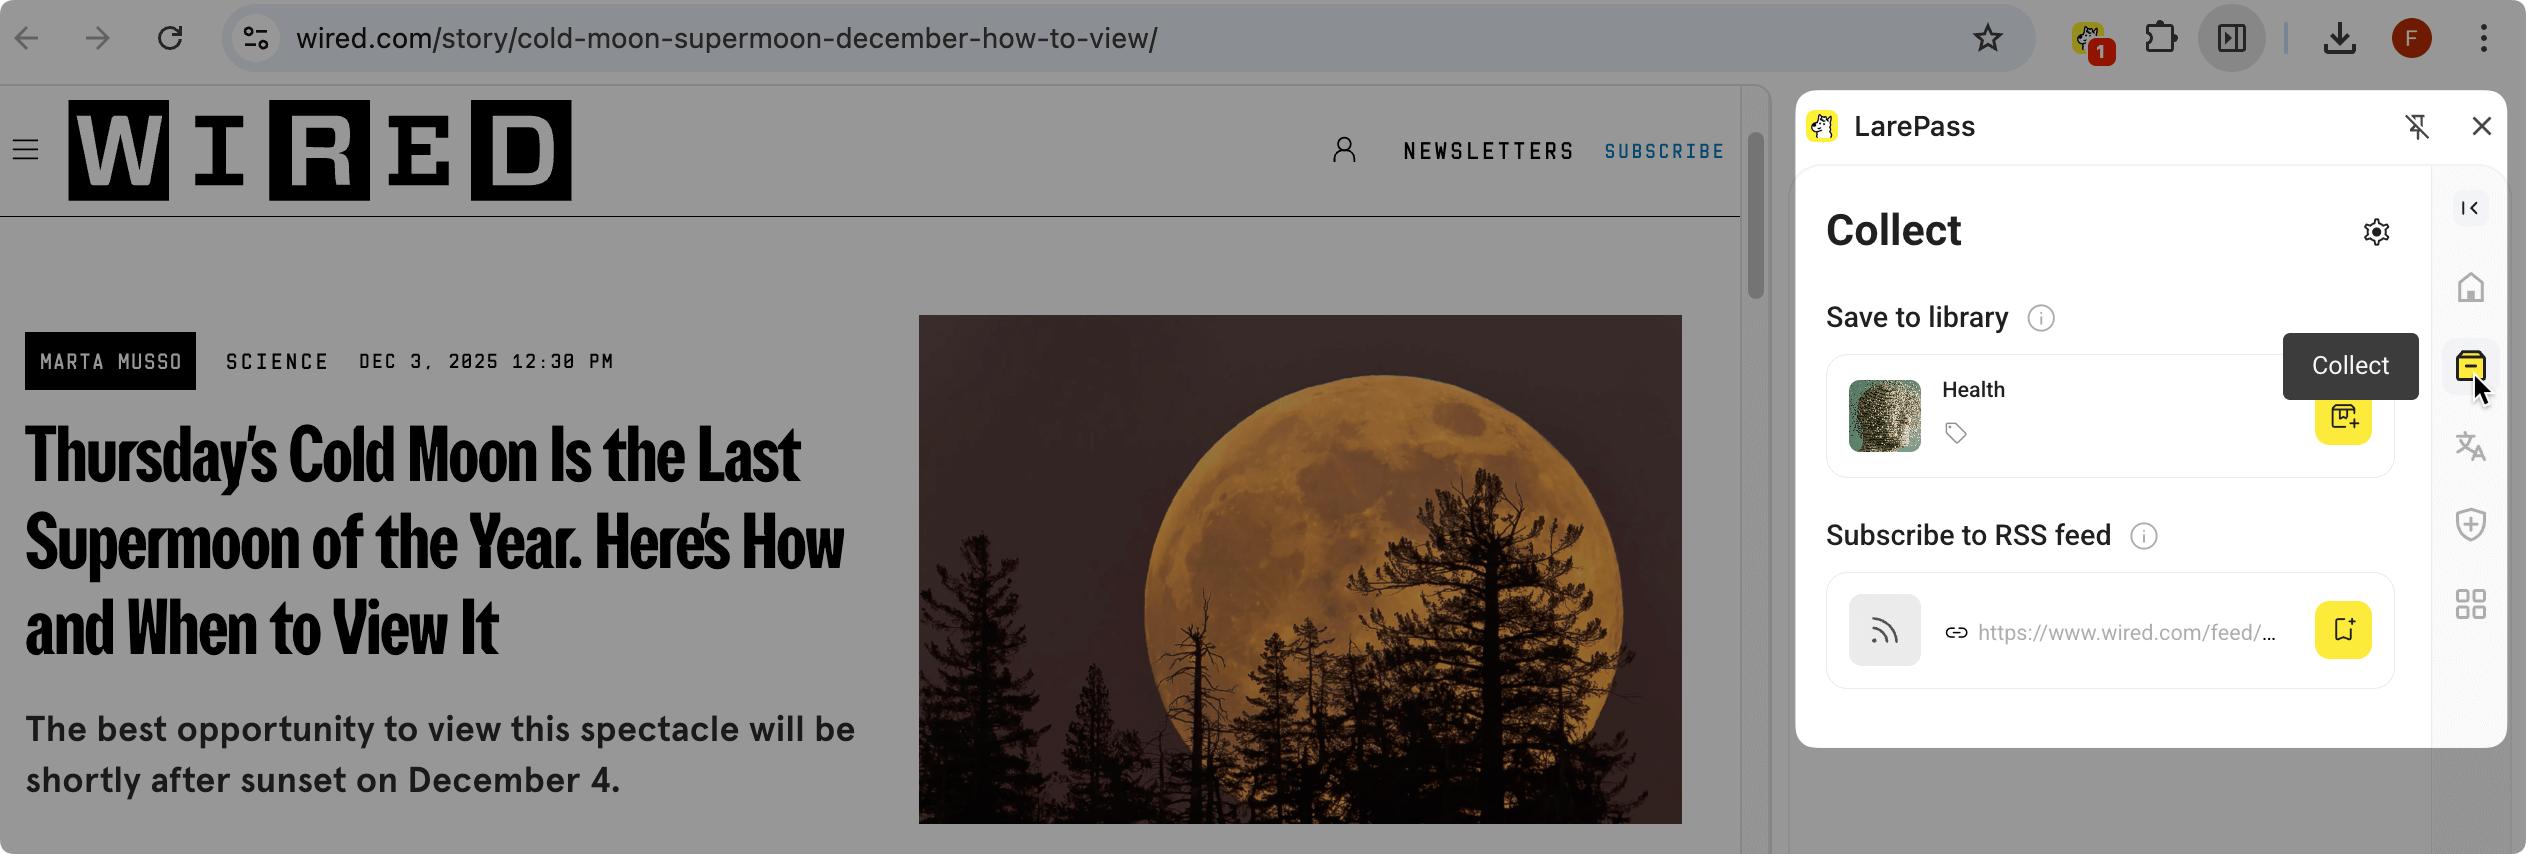
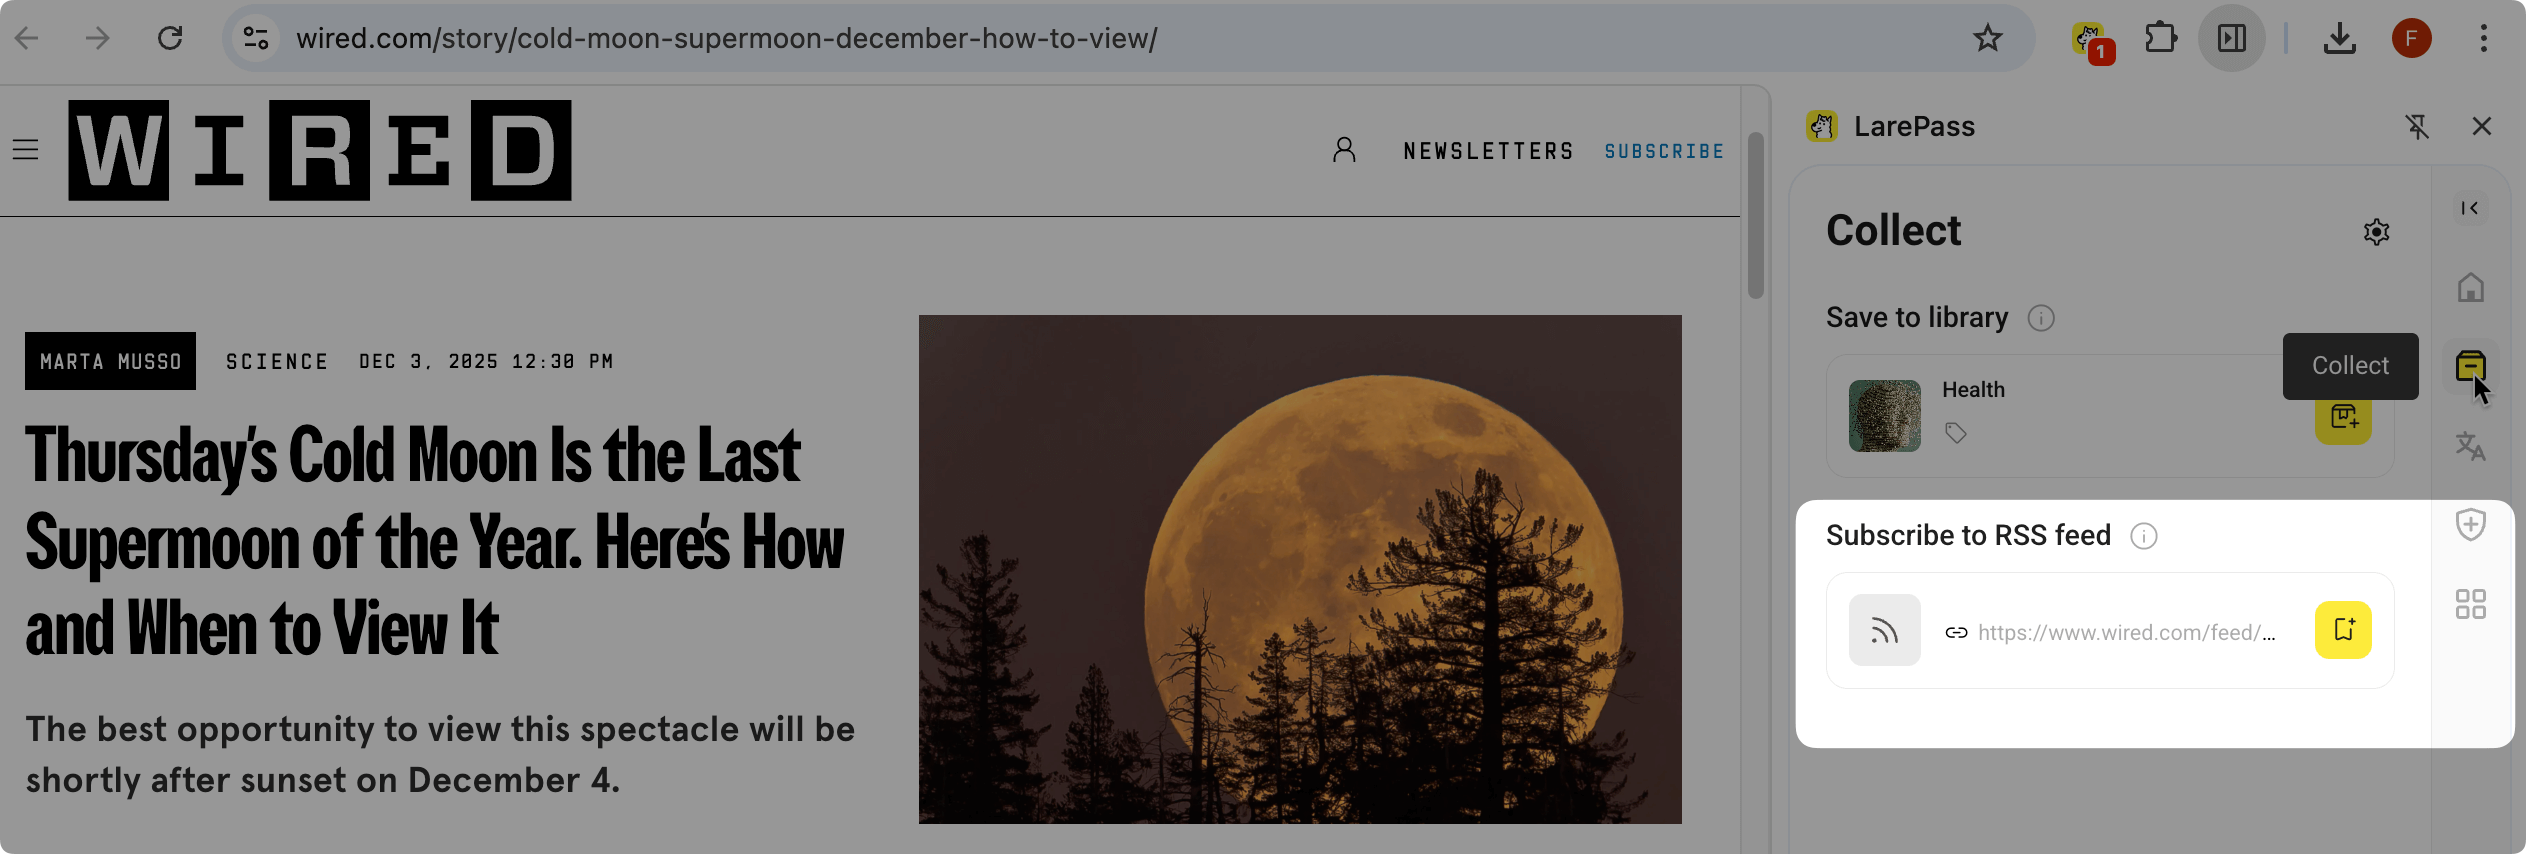
docs: update based on suggestions

Changed region(s): [[0.7102, 0.0913, 1.0, 0.8829]]

diff --git a/docs/.vitepress/en.ts b/docs/.vitepress/en.ts
@@ -262,7 +262,7 @@ const side = {
               link: "/manual/olares/wise/manage-cookies",
             },
             {
-              text: "Organize your knowledge",
+              text: "Filter your knowledge",
               link: "/manual/olares/wise/filter",
             },
           ],

diff --git a/docs/.vitepress/zh.ts b/docs/.vitepress/zh.ts
@@ -263,7 +263,7 @@ const side = {
               "link": "/zh/manual/olares/wise/subscribe"
             },
             {
-              "text": "整理知识",
+              "text": "使用过滤视图",
               "link": "/zh/manual/olares/wise/filter"
             }
           ]

diff --git a/docs/manual/olares/wise/index.md b/docs/manual/olares/wise/index.md
@@ -23,30 +23,30 @@ The sidebar navigation is divided into three logical areas:
 
 - **Feeds**
 
-    Your collection of subscribed sources. You can add any subscribable content here (including websites, blogs, and video channels). Clicking a specific feed allows you to toggle between **Unread** and **Read** items to track your consumption.
+    Your collection of subscribed sources. You can add any subscribable content here, including websites, blogs, and video channels. Clicking a specific feed allows you to toggle between **Unread** and **Read** items to track your consumption.
 
 - **Inbox**
 
     Your central workspace for active content. This folder aggregates all items currently marked as **Inbox** status, regardless of their format. Items appear here from three sources:
-    - Saved web pages (via LarePass browser extension or manual entry)
-    - Uploaded files (PDFs, EPUBs, etc.)
+    - Saved web pages via LarePass browser extension or manual entry
+    - Uploaded files such as PDFs, EPUBs, etc.
     - Feed items added to your library
 
 - **Content types**
 
     Wise automatically categorizes your content by format (**Articles**, **Videos**, **Audios**, **Books**, **PDFs**). Each content-type folder has two tabs that reflect the item's status:
-    - **`Inbox`**: Items of this type that you intend to read or process soon.
-    - **`Read Later`**: Items of this type that you saved for later reading.
+    - **Inbox**: Items of this type that you intend to read or process soon.
+    - **Read Later**: Items of this type that you saved for later reading.
     ![Item status](/images/manual/olares/wise-tabs-in-folder.png#bordered)
 
 ### Item status
 
 Every item in Wise has a status that can be either **Inbox** or **Read Later**. You can change an item's status using the icons in the list view or the reader view:
 
-- **<i class="material-symbols-outlined">inbox</i> `Inbox`**: Indicates the item is active or "to do."
-- **<i class="material-symbols-outlined">schedule</i> `Read Later`**: Indicates the item is archived or saved for future reading.
+- **<i class="material-symbols-outlined">inbox</i> Inbox**: Your primary collection for content you want to read soon.
+- **<i class="material-symbols-outlined">schedule</i> Read Later**: Your backlog for content to revisit in the future.
 
-Changing the status controls where the item appears in the sidebar (top-level **Inbox** and the `Inbox` / `Read Later` tabs of its content type), and updates instantly when you switch between them.
+Changing the status determines where the item appears in the sidebar, such as the top-level **Inbox** and the **Inbox** or **Read Later** tabs of its content type. The view updates instantly when you switch between them.
 
 ## Next steps
 

diff --git a/docs/zh/manual/olares/wise/index.md b/docs/zh/manual/olares/wise/index.md
@@ -27,25 +27,25 @@ Wise 内置两大核心能力：
 - **收件箱**
 
     这里是你处理当前内容的中心工作区，聚合了所有当前状态为**未读**的文件。这里的文件通常有以下三个来源：
-    - 收藏的网页（通过 LarePass 浏览器扩展或手动添加）
-    - 上传的文件（PDF、EPUB 等）
+    - 通过 LarePass 浏览器扩展或手动添加收藏的网页
+    - 上传的文件，如 PDF、EPUB 等
     - 从订阅源保存到收件箱
 
 - **文件类型**
 
     Wise 会根据文件格式自动对其分类（**文章**、**视频**、**音频**、**图书**、**PDF**）。每个类型文件夹中都包含两个根据文件状态划分的标签页：
-    - **`未读`**：打算尽快阅读或处理的内容。
-    - **`已读`**：保存下来，准备日后再读的内容。
+    - **收件箱**：计划近期阅读的主要内容集合。
+    - **稍后阅读**：计划稍后查看的内容。
     ![Item status](/images/zh/manual/olares/wise-tabs-in-folder.png#bordered)
 
 ### 文件状态
 
-Wise 中的每个文件都只有一个状态，分别为**已读**或**未读**。你可以在列表视图或阅读视图中，点击图标更改其状态：
+Wise 中的每个文件都只有一个状态，分别为**收件箱**或**稍后阅读**。你可以在列表视图或阅读视图中，点击图标更改其状态：
 
-- **<i class="material-symbols-outlined">inbox</i> `已读`**: 表示该文件处于活跃状态或“待办”状态。
-- **<i class="material-symbols-outlined">schedule</i> `未读`**:表示该文件已归档或保存，准备日后阅读。
+- **<i class="material-symbols-outlined">inbox</i> 收件箱**: 表示该文件计划近期阅读。
+- **<i class="material-symbols-outlined">schedule</i> 稍后阅读**:表示该文件计划稍后查看。
 
-更改文件状态将决定文件在侧边栏中的显示位置（如出现在**收件箱**，或对应文件类型的`已读`/ `未读`标签页中），并随着状态切换，即时更新位置。
+更改文件状态将决定文件在侧边栏中的显示位置，如出现在**收件箱**，或对应文件类型的**收件箱**/**稍后阅读**标签页中，并随着状态切换，即时更新位置。
 
 ## 后续步骤
 

diff --git a/docs/zh/manual/olares/wise/manage-cookies.md b/docs/zh/manual/olares/wise/manage-cookies.md
@@ -23,18 +23,13 @@ Olares 提供多种方式，让你可以灵活上传 Cookie，你可选择在浏
 
 ### 使用 LarePass 浏览器扩展上传
 
-这是处理 Cookie 最简单的方式。当你浏览一个需要登录的网站时，LarePass 扩展可以一次性捕获并上传当前页面所需的 Cookie。
-
-
-:::tip 安装 LarePass 浏览器扩展
-LarePass 扩展目前仅支持 Chrome 浏览器。你可以从[官网](https://olares.cn/larepass)下载。
-:::
+这是处理 Cookie 最简单的方式。当你浏览一个需要登录的网站时，[LarePass 扩展](https://www.olares.cn/larepass)可以一次性捕获并上传当前页面所需的 Cookie。
 
 1. 打开目标网站，并确认你已经登录。
-2. 打开 LarePass 浏览器扩展，选择 **<i class="material-symbols-outlined">inventory_2</i>**。
+2. 打开 LarePass 浏览器扩展，选择 **<i class="material-symbols-outlined">hard_drive</i>**。
 3. 点击**上传**来上传当前页面的 Cookie。
 
-![使用 LarePass 扩展上传 Cookie](/images/zh/manual/olares/wise-upload-cookie-larepass.png#bordered){width=70%}
+![使用 LarePass 扩展上传 Cookie](/images/zh/manual/olares/wise-upload-cookie-larepass.png#bordered){width=45%}
 
 上传完成后，当你在该页面执行**保存到库**或**订阅 RSS 源** 时，Wise 会自动使用这些 Cookie。
 

diff --git a/docs/manual/olares/wise/manage-cookies.md b/docs/manual/olares/wise/manage-cookies.md
@@ -23,17 +23,13 @@ Olares provides flexible options for uploading cookies, depending on whether you
 
 ### Upload via LarePass browser extension
 
-This is the easiest way to handle cookies. When you are browsing a site that requires a login, LarePass can capture and upload the cookies for the current page in one flow.
-
-:::tip Install LarePass browser extension
-LarePass extension is currently available for Chrome browsers only. You can download it from the [official page](https://www.olares.com/larepass).
-:::
+This is the easiest way to handle cookies. When you are browsing a site that requires a login, [LarePass browser extension](https://www.olares.com/larepass) can capture and upload the cookies for the current page in one flow.
 
 1. Navigate to the target website and make sure you are logged in.
-2. Open the **LarePass** browser extension and select **<i class="material-symbols-outlined">inventory_2</i>**.
+2. Open the **LarePass** browser extension and select **<i class="material-symbols-outlined">hard_drive</i>**.
 3. Click **Upload** to upload the cookies for the current page.
 
-![Upload cookies via LarePass extension](/images/manual/olares/wise-upload-cookie-larepass.png#bordered){width=70%}
+![Upload cookies via LarePass extension](/images/manual/olares/wise-upload-cookie-larepass.png#bordered){width=50%}
 
 After upload, Wise will use these cookies when you **Save to library** or **Subscribe to RSS feed** for that site.
 

diff --git a/docs/zh/manual/olares/wise/basics.md b/docs/zh/manual/olares/wise/basics.md
@@ -30,7 +30,7 @@ Wise 通过以下两种方式将内容收集到库中：
 
 #### 上传文件
 
-直接从你的电脑导入文件，包括 PDF、EPUB、音频、视频和其他文件类型。Wise 会根据文件格式，自动将其放入库中对应的内容文件夹（例如，PDF 放入 **PDF**，EPUB 放入**图书**，媒体文件放入**视频**或**音频**）。
+直接从你的电脑导入文件，包括 PDF、EPUB、音频、视频和其他文件类型。Wise 会根据文件格式，自动将其放入库中对应的内容文件夹。例如，PDF 放入 **PDF**，EPUB 放入**图书**，媒体文件放入**视频**或**音频**。
 
 1. 点击左下角菜单栏的 <i class="material-symbols-outlined">add_circle</i>。  
 2. 选择**上传**。
@@ -50,9 +50,9 @@ Wise 通过以下两种方式将内容收集到库中：
 
    Wise 会解析链接，并列出所有可行操作：
     - **保存到库**：将内容保存为库中的一个文件，并添加至**收件箱**。
-    - **订阅 RSS 源**：如果 Wise 检测到站点有一或多个 RSS 源，会在此列出。选择你想要订阅的源，之后该订阅源下的更新会自动出现在**订阅源**中（详情请查看[订阅和管理订阅源](./subscribe)）。
+    - **订阅 RSS 源**：如果 Wise 检测到站点有一或多个 RSS 源，会在此列出。选择你想要订阅的源，之后该订阅源下的更新会自动出现在[**订阅源**](./subscribe)中。
     ![订阅 RSS 源](/images/zh/manual/olares/wise-add-link-subscribe.png#bordered){width=300}
-    - **下载文件**：如果 Wise 检测到页面上有视频或其他可下载文件，会出现此选项。选择你要下载的文件，将其保存以便离线访问。(需安装**YT-DLP**).
+    - **下载文件**：如果 Wise 检测到页面上有视频或其他可下载文件，会出现此选项。选择你要下载的文件，将其保存以便离线访问。使用此功能需安装[YT-DLP](https://market.olares.com/app/market.olares/ytdlp)。
 
     ![Download files](/images/zh/manual/olares/wise-add-link-download.png#bordered){width=300}
 
@@ -63,7 +63,7 @@ Wise 通过以下两种方式将内容收集到库中：
 你也可以在浏览器中通过 LarePass 扩展直接将内容保存到 Wise，无需打开 Wise 应用。
 
 :::tip 安装 LarePass 浏览器扩展
-LarePass 扩展目前仅支持 Chrome 浏览器。你可以从[官网](https://olares.cn/larepass)下载。
+LarePass 扩展目前仅支持 Chrome 浏览器。你可以从[官网](https://www.olares.cn/larepass)下载。
 :::
 
 将网页内容保存到 Wise：

diff --git a/docs/manual/olares/wise/basics.md b/docs/manual/olares/wise/basics.md
@@ -31,7 +31,7 @@ You can save individual items to Wise in three ways: by uploading files, adding 
 
 #### Upload files
 
-Import files directly from your computer, including PDFs, EPUBs, audio, video, and other document types. Wise automatically places each supported format into the right content folder in your library (for example, PDFs under **PDFs**, EPUBs under **Books**, and media under **Videos** or **Audios**).
+Import files directly from your computer, including PDFs, EPUBs, audio, video, and other document types. Wise automatically places each supported format into the right content folder in your library. For example, PDFs under **PDFs**, EPUBs under **Books**, and media under **Videos** or **Audios**.
 
 1. Click <i class="material-symbols-outlined">add_circle</i> in the bottom-left menu bar.  
 2. Choose **Upload**.
@@ -51,9 +51,9 @@ If a link requires login or other access control, Wise may need cookies to fetch
 
     Wise analyzes the link and lists all actions available:
     - **Save to library**: The content will be saved as an item in your library and added to **Inbox**.
-    - **Subscribe to RSS feed**: If Wise detects one or more RSS feeds for the site, they will be listed here. Select the feed you want to follow, and new items from that feed will be automatically added to **Feeds**(see [Subscribe and manage feeds](./subscribe)).
+    - **Subscribe to RSS feed**: If Wise detects one or more RSS feeds for the site, they will be listed here. Select the feed you want to follow, and new items from that feed will be automatically [added to **Feeds**](./subscribe).
     ![Subscribe to RSS feed](/images/manual/olares/wise-add-link-subscribe.png#bordered){width=300}
-    - **Download file**: If Wise detects videos or other downloadable files on the page, this option will appear. Select the file you want to download to save it for offline access (requires **[YT-DLP](https://market.laresprime.olares.com/app/market.olares/ytdlp)**).
+    - **Download file**: If Wise detects videos or other downloadable files on the page, this option will appear. Select the file you want to download to save it for offline access. **[YT-DLP](https://market.olares.com/app/market.olares/ytdlp)** is required.
     ![Download files](/images/manual/olares/wise-add-link-download.png#bordered){width=300}
 
 Newly saved items will appear under their content type. You can then decide whether their status should be **Inbox** or **Read Later**.

diff --git a/docs/zh/manual/olares/wise/subscribe.md b/docs/zh/manual/olares/wise/subscribe.md
@@ -56,10 +56,10 @@ Wise 仅导入新的订阅源，历史内容不会同步迁移。
 LarePass 浏览器扩展可以让你在浏览网页时直接订阅，无需切回 Wise。
 
 :::tip 安装 LarePass 浏览器扩展
-LarePass 扩展目前仅支持 Chrome 浏览器。你可以从[官网](https://olares.cn/larepass)下载。
+LarePass 扩展目前仅支持 Chrome 浏览器。你可以从[官网](https://www.olares.cn/larepass)下载。
 :::
 
-1. 打开 LarePass 浏览器扩展，选择 **<i class="material-symbols-outlined">inventory_2</i>**。
+1. 打开 LarePass 浏览器扩展，选择 **<i class="material-symbols-outlined">hard_drive</i>**。
 2. 查看**订阅 RSS 源**区域：
    - 如果在当前页面检测到订阅源，会在此列出。
 3. 点击目标订阅源旁边的 <i class="material-symbols-outlined">bookmark_add</i> 即可订阅。

diff --git a/docs/manual/olares/wise/subscribe.md b/docs/manual/olares/wise/subscribe.md
@@ -60,7 +60,7 @@ The LarePass browser extension lets you subscribe to feeds while you browse, wit
 LarePass extension is currently available for Chrome browsers only. You can download it from the [official page](https://www.olares.com/larepass).
 :::
 
-1. Open the LarePass browser extension and select **<i class="material-symbols-outlined">inventory_2</i>**.
+1. Open the LarePass browser extension and select **<i class="material-symbols-outlined">hard_drive</i>**.
 2. Check the **RSS** section:
    - If feeds are detected on the current page, they will be listed there.
 3. Click <i class="material-symbols-outlined">bookmark_add</i> next to the feed you want to subscribe to.